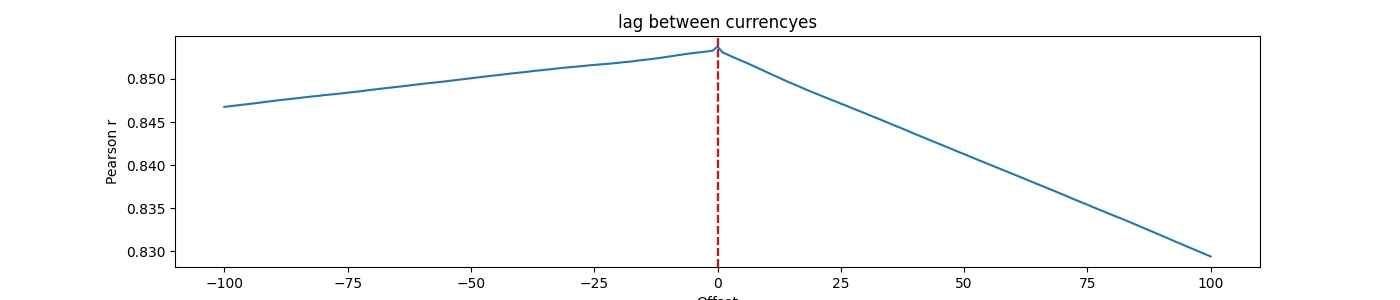
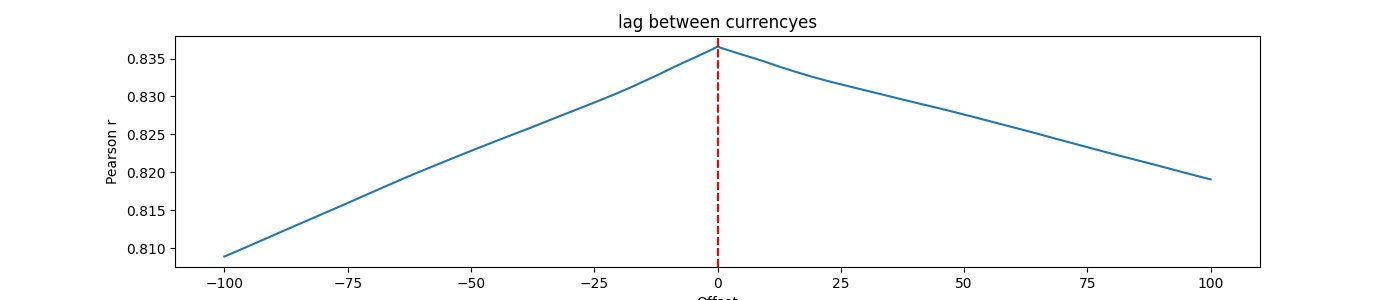
backtraider solve

diff --git a/playground_regression.py b/playground_regression.py
@@ -5,7 +5,7 @@ import lagtestV2 as lg
 # eth = 16 Sekunden und 5 Minuten.
 main_coins = ["BTC","ETH","ADA","XRP","SOL"]
 
-main_coins = lg.get_main_coins_eod(main_coins,start=20,interval="1m")
+main_coins = lg.get_main_coins_eod(main_coins,start=30,interval="1m")
 
 join_df = lg.joinTimeSeries(main_coins)
 
@@ -17,6 +17,6 @@ fig = lg.plot_chartV2(coin_dict=main_coins, fig=fig)
 
 fig.show()
 
-peak_snyc,sorted_res,res =  lg.detect_leg_corr(main_coins["XRP"]["scaled_price"],join_df["scaled_price"])
+peak_snyc,sorted_res,res =  lg.detect_leg_corr(main_coins["ADA"]["scaled_price"],join_df["scaled_price"])
 lg.lag_plot(res,peak_snyc)
 

diff --git a/lagtestV2.py b/lagtestV2.py
@@ -37,6 +37,7 @@ def get_coin_by_name_eod(name,interval="1m",start=30,end=time()):
 
     coin_df["scaled_price"] = scaleMinMax(coin_df["close"])
     coin_df = coin_df.set_index("ts")
+    coin_df.index = pd.to_datetime(coin_df.index)
 
     return coin_df
 

diff --git a/backtesting.py b/backtesting.py
@@ -22,3 +22,4 @@ print('Starting Portfolio Value: %.2f' % cerebro.broker.getvalue())
 
 cerebro.run()
 
+print('Final Portfolio Value: %.2f' % cerebro.broker.getvalue())
